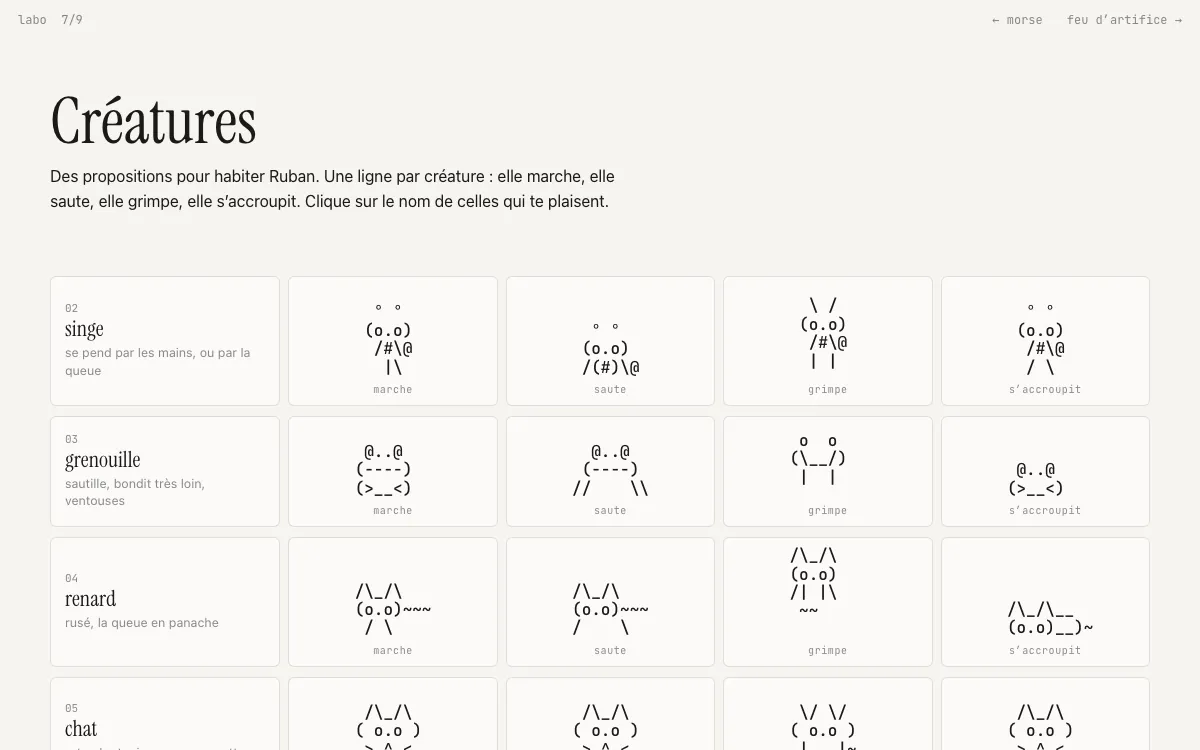
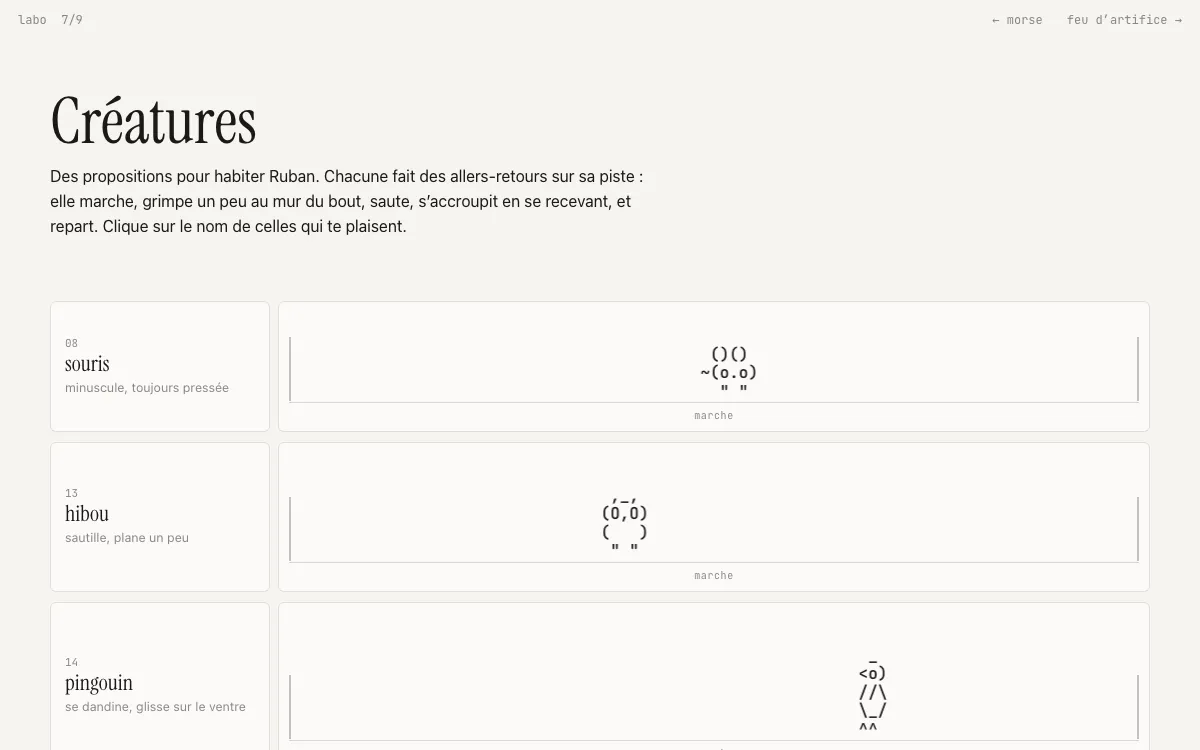
Créatures : chacune fait des allers-retours sur sa piste
Les quatre cases deviennent une longue piste par créature, entre deux petits
murs (stage.ts) : elle la traverse en marchant, grimpe un peu au mur du bout
(ses deux images de grimpe), saute en arrière, s'accroupit en se recevant, fait
demi-tour et repart. Tournée vers la gauche, son dessin est retourné (les / \,
( ), < >, [ ] et { } échangés). Le geste en cours s'écrit sous la piste.
Nouvelle capture pour le sommaire.

diff --git a/src/features/creatures/main.ts b/src/features/creatures/main.ts
@@ -1,15 +1,17 @@
 import './creatures.css'
 import { mount } from '@/features/carnet/carnet'
-import type { Creature, Pose } from './art'
+import type { Creature } from './art'
 import { C1 } from './bestiary-1'
 import { C2 } from './bestiary-2'
 import { C3 } from './bestiary-3'
 import { C4 } from './bestiary-4'
+import { stage } from './stage'
 
 // Créatures : une planche de créatures en caractères, pour en choisir une qui habitera Ruban. Une ligne par
-// créature : son numéro, son nom et un mot sur elle, puis quatre cases qui bougent en boucle, chacune pour un geste
-// (elle marche, elle saute, elle grimpe, elle s'accroupit). Un clic sur le nom la garde (et un autre la rend) ;
-// celles qu'on garde sont rappelées en haut, par leur numéro, et restent gardées dans ce navigateur.
+// créature : son numéro, son nom et un mot sur elle, puis sa piste, où elle fait des allers-retours (elle marche,
+// grimpe un peu au mur du bout, saute, s'accroupit en se recevant, et repart ; voir stage.ts). Un clic sur le nom la
+// garde (et un autre la rend) ; celles qu'on garde sont rappelées en haut, par leur numéro, et restent gardées dans
+// ce navigateur.
 
 // la ligne du carnet (le labo, la page, les voisines)
 mount()
@@ -17,15 +19,6 @@ mount()
 const CREATURES: Creature[] = [...C1, ...C2, ...C3, ...C4]
 const list = document.querySelector<HTMLElement>('.cr-list')!
 const picked = document.querySelector<HTMLElement>('.cr-picked')!
-
-type Key = keyof Pick<Creature, 'idle' | 'walk' | 'jump' | 'climb' | 'climb2' | 'crouch'>
-// les quatre cases : leur geste, et les poses qui passent dedans, en boucle (une toutes les 420 ms)
-const CELLS: { label: string; poses: Key[] }[] = [
-  { label: 'marche', poses: ['idle', 'walk'] },
-  { label: 'saute', poses: ['idle', 'crouch', 'jump', 'jump'] },
-  { label: 'grimpe', poses: ['climb', 'climb2'] },
-  { label: 's’accroupit', poses: ['idle', 'idle', 'crouch', 'crouch'] },
-]
 
 // les créatures gardées (leur numéro)
 const KEY = 'creatures.gardees'
@@ -49,13 +42,12 @@ function save() {
     : ''
 }
 
-// (toutes les poses d'une créature dans la même boîte : la plus large, la plus haute ; elle ne saute pas d'une case
-// ou d'une pose à l'autre)
+// (toutes les poses d'une créature dans la même boîte : la plus large, la plus haute ; elle ne saute pas d'une pose
+// à l'autre)
 const box = (c: Creature) => {
   const poses = [c.idle, c.walk, c.jump, c.climb, c.climb2, c.crouch]
   return { w: Math.max(...poses.flat().map((l) => l.length)), h: Math.max(...poses.map((p) => p.length)) }
 }
-const pad = (p: Pose, h: number) => [...Array(h - p.length).fill(''), ...p].join('\n')
 
 const rows = CREATURES.map((c) => {
   const { n } = c
@@ -68,13 +60,10 @@ const rows = CREATURES.map((c) => {
       <span class="cr-name">${c.name}</span>
       <span class="cr-note">${c.note}</span>
     </button>
-    ${CELLS.map(
-      ({ label }) => `
-      <figure class="cr-cell">
-        <pre class="cr-art" aria-hidden="true" style="--w: ${w}ch; --h: ${h}"></pre>
-        <figcaption>${label}</figcaption>
-      </figure>`,
-    ).join('')}`
+    <figure class="cr-lane" style="--h: ${h}">
+      <pre class="cr-art" aria-hidden="true" style="--w: ${w}ch; --h: ${h}"></pre>
+      <figcaption></figcaption>
+    </figure>`
   const button = li.querySelector<HTMLButtonElement>('.cr-pick')!
   const show = () => {
     button.setAttribute('aria-pressed', String(kept.has(n)))
@@ -88,21 +77,19 @@ const rows = CREATURES.map((c) => {
   })
   show()
   list.append(li)
-  return { c, h, arts: [...li.querySelectorAll<HTMLElement>('.cr-art')] }
+  const lane = li.querySelector<HTMLElement>('.cr-lane')!
+  return stage(lane, lane.querySelector('.cr-art')!, lane.querySelector('figcaption')!, c, w, h)
 })
 save()
 
-// l'animation : chaque case passe à sa pose suivante ; chaque ligne un peu décalée, pour que la planche vive sans
-// marcher au pas
-let step = 0
-function tick() {
-  rows.forEach(({ c, h, arts }, i) => {
-    CELLS.forEach(({ poses }, k) => {
-      arts[k].textContent = pad(c[poses[(step + i) % poses.length]], h)
-    })
-  })
-  step++
+// l'animation : chaque créature fait un pas sur sa piste, à chaque image (sans animation si on l'a demandé au
+// système : elles restent où elles sont)
+let last = performance.now()
+function frame(now: number) {
+  const dt = Math.min(0.05, (now - last) / 1000)
+  last = now
+  for (const step of rows) step(dt)
+  requestAnimationFrame(frame)
 }
-tick()
-// (sans animation si on l'a demandé au système : la première pose de chaque case)
-if (!matchMedia('(prefers-reduced-motion: reduce)').matches) setInterval(tick, 420)
+if (matchMedia('(prefers-reduced-motion: reduce)').matches) for (const step of rows) step(0)
+else requestAnimationFrame(frame)

diff --git a/src/features/creatures/stage.ts b/src/features/creatures/stage.ts
@@ -1,0 +1,86 @@
+import type { Creature, Pose } from './art'
+
+// La piste d'une créature : une longue bande, un petit mur à chaque bout. La créature la traverse en marchant ; au
+// bout, elle grimpe un peu sur le mur, saute en arrière, s'accroupit en se recevant, fait demi-tour, et repart dans
+// l'autre sens. Le geste en cours s'écrit sous la piste. Tournée vers la gauche, son dessin est retourné.
+
+// en pixels par seconde : sa marche, sa grimpe ; la hauteur où elle grimpe ; la pesanteur de son saut
+const WALK = 46
+const CLIMB = 22
+const HIGH = 30
+const GRAVITY = 900
+// (un pas, une prise : tous les combien de pixels l'image change)
+const STRIDE = 11
+const GRIP = 8
+
+// retourner un dessin : chaque ligne à l'envers (toutes de la même largeur), et les signes qui ont un sens, échangés
+const PAIRS: Record<string, string> = { '/': '\\', '\\': '/', '(': ')', ')': '(', '<': '>', '>': '<', '[': ']', ']': '[', '{': '}', '}': '{' }
+const mirror = (p: Pose, w: number) =>
+  p.map((l) => [...l.padEnd(w)].reverse().map((c) => PAIRS[c] ?? c).join(''))
+
+type Phase = 'walk' | 'climb' | 'jump' | 'crouch'
+const LABEL: Record<Phase, string> = { walk: 'marche', climb: 'grimpe', jump: 'saute', crouch: 's’accroupit' }
+
+export function stage(lane: HTMLElement, art: HTMLElement, label: HTMLElement, c: Creature, w: number, h: number) {
+  const pad = (p: Pose) => [...Array(h - p.length).fill(''), ...p].join('\n')
+  let phase: Phase = 'walk'
+  // dir : 1 vers la droite, -1 vers la gauche ; x, y : depuis le bas à gauche de la piste, en pixels
+  let dir = Math.random() < 0.5 ? 1 : -1
+  let x = -1
+  let y = 0
+  let vx = 0
+  let vy = 0
+  let moved = 0
+  let wait = 0
+  let shown = ''
+
+  const pose = (): Pose => {
+    if (phase === 'walk') return Math.floor(moved / STRIDE) % 2 ? c.walk : c.idle
+    if (phase === 'climb') return Math.floor(moved / GRIP) % 2 ? c.climb2 : c.climb
+    if (phase === 'jump') return c.jump
+    return c.crouch
+  }
+
+  return (dt: number) => {
+    // (la place : la largeur de la piste, moins celle de la créature et des deux murs)
+    const wall = 14
+    const max = Math.max(0, lane.clientWidth - art.offsetWidth - 2 * wall)
+    if (x < 0) x = Math.random() * max
+    if (phase === 'walk') {
+      x += dir * WALK * dt
+      moved += WALK * dt
+      if (x <= 0 || x >= max) {
+        x = Math.max(0, Math.min(max, x))
+        phase = 'climb'
+        moved = 0
+      }
+    } else if (phase === 'climb') {
+      y += CLIMB * dt
+      moved += CLIMB * dt
+      if (y >= HIGH) {
+        // (elle se retourne, et saute vers le milieu de la piste)
+        phase = 'jump'
+        dir = -dir
+        vx = dir * 70
+        vy = 260
+      }
+    } else if (phase === 'jump') {
+      x = Math.max(0, Math.min(max, x + vx * dt))
+      vy -= GRAVITY * dt
+      y += vy * dt
+      if (y <= 0) {
+        y = 0
+        phase = 'crouch'
+        wait = 0.45
+      }
+    } else if ((wait -= dt) <= 0) {
+      phase = 'walk'
+      moved = 0
+    }
+
+    const text = pad(dir === 1 ? pose() : mirror(pose(), w))
+    if (text !== shown) art.textContent = shown = text
+    art.style.transform = `translate(${wall + x}px, ${-y}px)`
+    if (label.textContent !== LABEL[phase]) label.textContent = LABEL[phase]
+  }
+}

diff --git a/src/features/creatures/creatures.css b/src/features/creatures/creatures.css
@@ -47,8 +47,7 @@ main.cr.carnet-sheet {
   color: var(--keep);
 }
 
-/* la planche : une ligne par créature, son nom à gauche, ses quatre cases à la suite (deux par deux sur un
-   téléphone) */
+/* la planche : une ligne par créature, son nom à gauche, sa piste à droite (dessous, sur un téléphone) */
 .cr-list {
   display: grid;
   gap: 10px;
@@ -59,20 +58,17 @@ main.cr.carnet-sheet {
 }
 .cr-row {
   display: grid;
-  grid-template-columns: minmax(150px, 1.1fr) repeat(4, minmax(0, 1fr));
+  grid-template-columns: minmax(150px, 220px) 1fr;
   gap: 8px;
   align-items: stretch;
 }
 @media (max-width: 720px) {
   .cr-row {
-    grid-template-columns: repeat(2, minmax(0, 1fr));
-  }
-  .cr-pick {
-    grid-column: 1 / -1;
+    grid-template-columns: 1fr;
   }
 }
 .cr-pick,
-.cr-cell {
+.cr-lane {
   margin: 0;
   border: 1px solid rgb(26 25 23 / 0.12);
   border-radius: 6px;
@@ -118,25 +114,52 @@ main.cr.carnet-sheet {
   line-height: 1.4;
   color: var(--muted);
 }
-/* une case : la créature, en bas (posée), et son geste dessous */
-.cr-cell {
-  display: grid;
-  justify-items: center;
-  align-content: end;
-  gap: 8px;
-  padding: 14px 8px 10px;
+/* la piste : un sol, un petit mur à chaque bout, la créature posée dessus (elle s'y déplace, voir stage.ts), et son
+   geste dessous */
+.cr-lane {
+  position: relative;
+  min-height: calc(var(--h) * 1.15em + 76px);
+  padding: 0;
   overflow: hidden;
+  font-size: 16px;
 }
-.cr-cell figcaption {
+.cr-lane::before,
+.cr-lane::after {
+  content: '';
+  position: absolute;
+  bottom: 30px;
+  width: 2px;
+  height: 64px;
+  background: rgb(26 25 23 / 0.25);
+}
+.cr-lane::before {
+  left: 10px;
+}
+.cr-lane::after {
+  right: 10px;
+}
+.cr-lane figcaption {
+  position: absolute;
+  left: 0;
+  right: 0;
+  bottom: 10px;
+  border-top: 1px solid rgb(26 25 23 / 0.15);
+  padding-top: 8px;
+  margin: 0 10px;
+  text-align: center;
   font: 10px/1 var(--mono);
   letter-spacing: 0.06em;
   color: var(--muted);
 }
 /* la créature : sa boîte fait la taille de sa plus grande pose */
 .cr-art {
+  position: absolute;
+  left: 0;
+  bottom: 30px;
   width: var(--w);
   min-height: calc(var(--h) * 1.15em);
   margin: 0;
+  will-change: transform;
   font: 500 16px / 1.15 var(--mono);
   white-space: pre;
   text-align: left;

diff --git a/src/content/content.ts b/src/content/content.ts
@@ -139,7 +139,7 @@ export const carnet: Carnet = {
       name: 'créatures',
       href: '/creatures/',
       src: '/shots/creatures.webp',
-      alt: 'Sur une page claire, une planche de créatures dessinées en caractères, une par ligne (un singe, une grenouille, un renard, un chat…) : à gauche son numéro, son nom en serif et un mot sur elle ; à côté, quatre cases où elle marche, saute, grimpe et s’accroupit.',
+      alt: 'Sur une page claire, une planche de créatures dessinées en caractères, une par ligne (une souris, un hibou, un pingouin…) : à gauche son numéro, son nom en serif et un mot sur elle ; à droite, sa piste entre deux petits murs, où elle marche, tantôt vers la droite, tantôt vers la gauche.',
     },
     {
       name: 'feu d’artifice',

diff --git a/creatures/index.html b/creatures/index.html
@@ -25,7 +25,7 @@
     <main class="cr carnet-sheet">
       <header class="cr-head">
         <h1 class="cr-title">Créatures</h1>
-        <p class="cr-lead">Des propositions pour habiter Ruban. Une ligne par créature : elle marche, elle saute, elle grimpe, elle s’accroupit. Clique sur le nom de celles qui te plaisent.</p>
+        <p class="cr-lead">Des propositions pour habiter Ruban. Chacune fait des allers-retours sur sa piste : elle marche, grimpe un peu au mur du bout, saute, s’accroupit en se recevant, et repart. Clique sur le nom de celles qui te plaisent.</p>
         <p class="cr-picked" aria-live="polite"></p>
       </header>
       <ol class="cr-list"></ol>

diff --git a/README.md b/README.md
@@ -63,8 +63,8 @@ src/
                                controls (figer, enregistrer), intro
     morse/                     la page /morse : une phrase tapée, écrite en morse (code : la table, le temps),
                                player (le bip et la lampe)
-    creatures/                 la page /creatures : une planche de créatures en caractères, chacune en quatre poses,
-                               pour choisir celle de Ruban : art (le format), bestiary-1..4 (dix chacun)
+    creatures/                 la page /creatures : une planche de créatures en caractères, chacune sur sa piste
+                               (allers-retours), pour choisir celle de Ruban : art, bestiary-1..4, stage (la piste)
     abyme/                     la page /abyme : la visite remontée de fenêtre en fenêtre (path, door, drawn…)
     yaya/                      la page /yaya (cachée, sans lien)
   shared/
